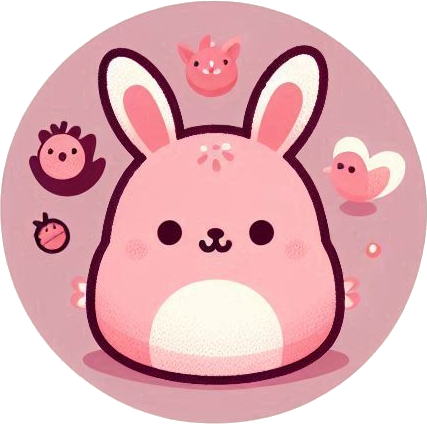
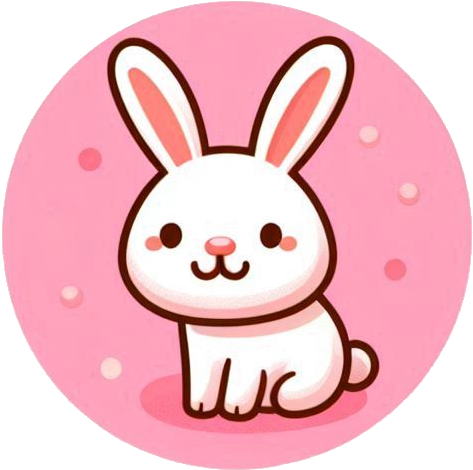
로고 추가, 이미지 교체

diff --git a/anipop/index.html b/anipop/index.html
@@ -20,8 +20,11 @@
     <div class="container">
       <div class="header">
         <div class="title-container">
-          <h1>Anipop</h1>
-          <span class="version">v0.2</span>
+          <div class="logo-container">
+            <img src="icon-192x192.png" alt="Anipop Logo" />
+            <h1>ANIPOP</h1>
+          </div>
+          <span class="version">v0.3</span>
         </div>
         <div class="score-container">
           <div id="highScore" class="highscore-container"></div>

diff --git a/anipop/style.css b/anipop/style.css
@@ -363,3 +363,20 @@ canvas {
   z-index: 10;
   justify-content: center;
 }
+
+.logo-container {
+  display: flex;
+  align-items: center;
+  justify-content: center;
+  height: 60px;
+}
+.logo-container img {
+  max-height: 100%;
+  max-width: 100%;
+  object-fit: contain;
+}
+.title-container {
+  display: flex;
+  align-items: center;
+  gap: 5px;
+}
